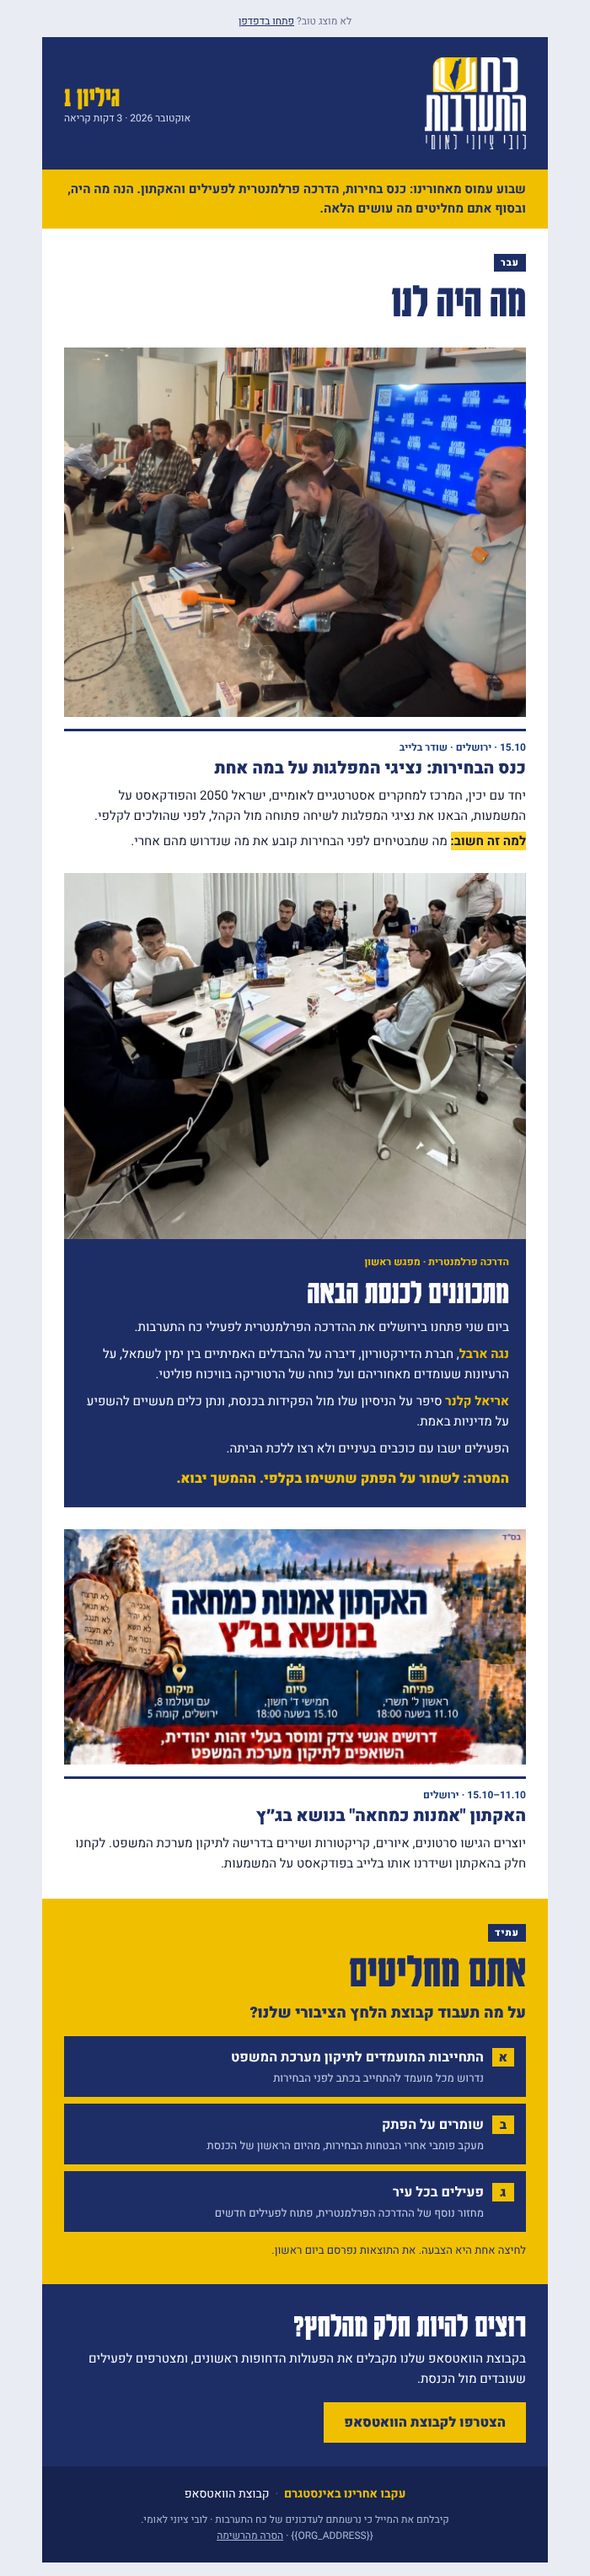
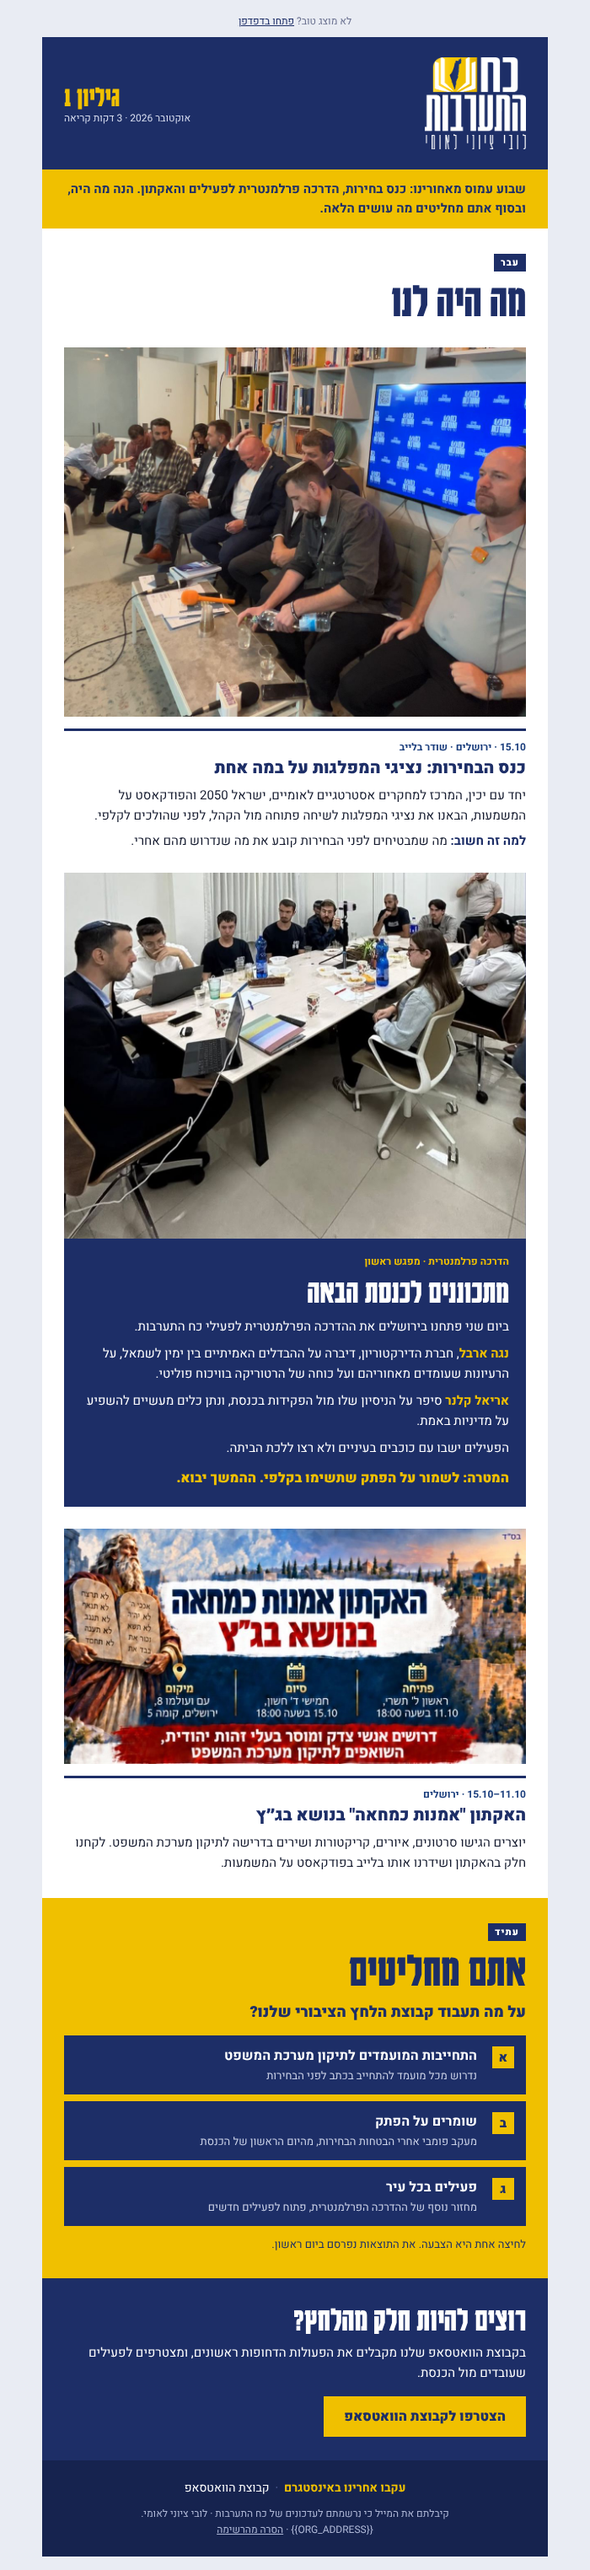
Rebuild issue 1 buttons with bgcolor table cells
Some senders strip CSS backgrounds; table-cell bgcolor survives them and Outlook.

Claude-Session: https://claude.ai/code/session_01CXy1GAMCNCJzawLkNUrF7w

diff --git a/newsletter/issue-01.html b/newsletter/issue-01.html
@@ -88,7 +88,7 @@
         <div style="font-size:12px;line-height:18px;font-weight:700;color:#1B3E7D;">15.10 · ירושלים · שודר בלייב</div>
         <div style="font-size:20px;line-height:28px;font-weight:900;color:#1D2E67;padding-top:2px;">כנס הבחירות: נציגי המפלגות על במה אחת</div>
         <div style="font-size:15px;line-height:24px;color:#141A2E;padding-top:6px;">יחד עם יכין, המרכז למחקרים אסטרטגיים לאומיים, ישראל 2050 והפודקאסט על המשמעות, הבאנו את נציגי המפלגות לשיחה פתוחה מול הקהל, לפני שהולכים לקלפי.</div>
-        <div style="font-size:15px;line-height:24px;color:#141A2E;padding-top:6px;"><span style="background:#FFD329;font-weight:700;">למה זה חשוב:</span> מה שמבטיחים לפני הבחירות קובע את מה שנדרוש מהם אחרי.</div>
+        <div style="font-size:15px;line-height:24px;color:#141A2E;padding-top:6px;"><b style="color:#1D2E67;">למה זה חשוב:</b> מה שמבטיחים לפני הבחירות קובע את מה שנדרוש מהם אחרי.</div>
       </div>
     </td></tr>
 
@@ -130,22 +130,37 @@
 
       <table role="presentation" width="100%" cellpadding="0" cellspacing="0" border="0">
         <tr><td style="padding-bottom:8px;">
-          <a href="{{VOTE_A_URL}}" style="display:block;background:#1D2E67;color:#FFFFFF;font-family:'Heebo',Arial,sans-serif;padding:13px 14px;text-align:right;">
-            <span style="display:inline-block;background:#F0C000;color:#1D2E67;font-size:15px;font-weight:900;width:26px;text-align:center;margin-left:10px;">א</span><span style="font-size:16px;line-height:22px;font-weight:700;">התחייבות המועמדים לתיקון מערכת המשפט</span>
-            <span style="display:block;font-size:13px;line-height:19px;color:#C9D0E6;padding-top:3px;padding-right:36px;">נדרוש מכל מועמד להתחייב בכתב לפני הבחירות</span>
-          </a>
+          <table role="presentation" width="100%" cellpadding="0" cellspacing="0" border="0"><tr>
+            <td width="34" valign="top" bgcolor="#1D2E67" style="padding:13px 14px 13px 0;">
+              <table role="presentation" cellpadding="0" cellspacing="0" border="0"><tr><td width="26" height="26" align="center" bgcolor="#F0C000" style="font-family:'Heebo',Arial,sans-serif;font-size:15px;font-weight:900;color:#1D2E67;"><a href="{{VOTE_A_URL}}" style="color:#1D2E67;text-decoration:none;">א</a></td></tr></table>
+            </td>
+            <td bgcolor="#1D2E67" style="padding:13px 10px 13px 14px;text-align:right;font-family:'Heebo',Arial,sans-serif;">
+              <a href="{{VOTE_A_URL}}" style="color:#FFFFFF;text-decoration:none;font-size:16px;line-height:22px;font-weight:700;display:block;">התחייבות המועמדים לתיקון מערכת המשפט</a>
+              <a href="{{VOTE_A_URL}}" style="color:#C9D0E6;text-decoration:none;font-size:13px;line-height:19px;display:block;padding-top:3px;">נדרוש מכל מועמד להתחייב בכתב לפני הבחירות</a>
+            </td>
+          </tr></table>
         </td></tr>
         <tr><td style="padding-bottom:8px;">
-          <a href="{{VOTE_B_URL}}" style="display:block;background:#1D2E67;color:#FFFFFF;font-family:'Heebo',Arial,sans-serif;padding:13px 14px;text-align:right;">
-            <span style="display:inline-block;background:#F0C000;color:#1D2E67;font-size:15px;font-weight:900;width:26px;text-align:center;margin-left:10px;">ב</span><span style="font-size:16px;line-height:22px;font-weight:700;">שומרים על הפתק</span>
-            <span style="display:block;font-size:13px;line-height:19px;color:#C9D0E6;padding-top:3px;padding-right:36px;">מעקב פומבי אחרי הבטחות הבחירות, מהיום הראשון של הכנסת</span>
-          </a>
+          <table role="presentation" width="100%" cellpadding="0" cellspacing="0" border="0"><tr>
+            <td width="34" valign="top" bgcolor="#1D2E67" style="padding:13px 14px 13px 0;">
+              <table role="presentation" cellpadding="0" cellspacing="0" border="0"><tr><td width="26" height="26" align="center" bgcolor="#F0C000" style="font-family:'Heebo',Arial,sans-serif;font-size:15px;font-weight:900;color:#1D2E67;"><a href="{{VOTE_B_URL}}" style="color:#1D2E67;text-decoration:none;">ב</a></td></tr></table>
+            </td>
+            <td bgcolor="#1D2E67" style="padding:13px 10px 13px 14px;text-align:right;font-family:'Heebo',Arial,sans-serif;">
+              <a href="{{VOTE_B_URL}}" style="color:#FFFFFF;text-decoration:none;font-size:16px;line-height:22px;font-weight:700;display:block;">שומרים על הפתק</a>
+              <a href="{{VOTE_B_URL}}" style="color:#C9D0E6;text-decoration:none;font-size:13px;line-height:19px;display:block;padding-top:3px;">מעקב פומבי אחרי הבטחות הבחירות, מהיום הראשון של הכנסת</a>
+            </td>
+          </tr></table>
         </td></tr>
         <tr><td>
-          <a href="{{VOTE_C_URL}}" style="display:block;background:#1D2E67;color:#FFFFFF;font-family:'Heebo',Arial,sans-serif;padding:13px 14px;text-align:right;">
-            <span style="display:inline-block;background:#F0C000;color:#1D2E67;font-size:15px;font-weight:900;width:26px;text-align:center;margin-left:10px;">ג</span><span style="font-size:16px;line-height:22px;font-weight:700;">פעילים בכל עיר</span>
-            <span style="display:block;font-size:13px;line-height:19px;color:#C9D0E6;padding-top:3px;padding-right:36px;">מחזור נוסף של ההדרכה הפרלמנטרית, פתוח לפעילים חדשים</span>
-          </a>
+          <table role="presentation" width="100%" cellpadding="0" cellspacing="0" border="0"><tr>
+            <td width="34" valign="top" bgcolor="#1D2E67" style="padding:13px 14px 13px 0;">
+              <table role="presentation" cellpadding="0" cellspacing="0" border="0"><tr><td width="26" height="26" align="center" bgcolor="#F0C000" style="font-family:'Heebo',Arial,sans-serif;font-size:15px;font-weight:900;color:#1D2E67;"><a href="{{VOTE_C_URL}}" style="color:#1D2E67;text-decoration:none;">ג</a></td></tr></table>
+            </td>
+            <td bgcolor="#1D2E67" style="padding:13px 10px 13px 14px;text-align:right;font-family:'Heebo',Arial,sans-serif;">
+              <a href="{{VOTE_C_URL}}" style="color:#FFFFFF;text-decoration:none;font-size:16px;line-height:22px;font-weight:700;display:block;">פעילים בכל עיר</a>
+              <a href="{{VOTE_C_URL}}" style="color:#C9D0E6;text-decoration:none;font-size:13px;line-height:19px;display:block;padding-top:3px;">מחזור נוסף של ההדרכה הפרלמנטרית, פתוח לפעילים חדשים</a>
+            </td>
+          </tr></table>
         </td></tr>
       </table>
       <p style="margin:12px 0 0;font-family:'Heebo',Arial,sans-serif;font-size:13px;line-height:20px;color:#1D2E67;">לחיצה אחת היא הצבעה. את התוצאות נפרסם ביום ראשון.</p>
@@ -155,9 +170,8 @@
     <tr><td class="px" bgcolor="#1D2E67" style="background:#1D2E67;padding:28px 26px;text-align:right;font-family:'Heebo',Arial,sans-serif;">
       <div style="font-family:'Karantina','Heebo',Arial,sans-serif;font-size:40px;line-height:40px;font-weight:700;color:#FFFFFF;">רוצים להיות חלק מהלחץ?</div>
       <div style="font-size:15px;line-height:24px;color:#FFFFFF;padding:8px 0 16px;">בקבוצת הוואטסאפ שלנו מקבלים את הפעולות הדחופות ראשונים, ומצטרפים לפעילים שעובדים מול הכנסת.</div>
-      <table role="presentation" cellpadding="0" cellspacing="0" border="0"><tr><td class="btn">
-        <!--[if mso]><v:rect xmlns:v="urn:schemas-microsoft-com:vml" href="https://chat.whatsapp.com/Cxw30pP21S34YVVI3dAeJi" style="height:48px;v-text-anchor:middle;width:280px;" stroke="f" fillcolor="#F0C000"><center style="color:#1D2E67;font-family:Arial,sans-serif;font-size:16px;font-weight:bold;">הצטרפו לקבוצת הוואטסאפ</center></v:rect><![endif]-->
-        <!--[if !mso]><!--><a href="https://chat.whatsapp.com/Cxw30pP21S34YVVI3dAeJi" style="display:inline-block;background:#F0C000;color:#1D2E67;font-family:'Heebo',Arial,sans-serif;font-size:16px;font-weight:900;line-height:20px;padding:14px 24px;">הצטרפו לקבוצת הוואטסאפ</a><!--<![endif]-->
+      <table role="presentation" cellpadding="0" cellspacing="0" border="0"><tr><td class="btn" bgcolor="#F0C000" style="background:#F0C000;">
+        <a href="https://chat.whatsapp.com/Cxw30pP21S34YVVI3dAeJi" style="display:inline-block;color:#1D2E67;font-family:'Heebo',Arial,sans-serif;font-size:16px;font-weight:900;line-height:20px;padding:14px 24px;">הצטרפו לקבוצת הוואטסאפ</a>
       </td></tr></table>
     </td></tr>
 

diff --git a/newsletter/preview-issue-01.html b/newsletter/preview-issue-01.html
@@ -88,7 +88,7 @@
         <div style="font-size:12px;line-height:18px;font-weight:700;color:#1B3E7D;">15.10 · ירושלים · שודר בלייב</div>
         <div style="font-size:20px;line-height:28px;font-weight:900;color:#1D2E67;padding-top:2px;">כנס הבחירות: נציגי המפלגות על במה אחת</div>
         <div style="font-size:15px;line-height:24px;color:#141A2E;padding-top:6px;">יחד עם יכין, המרכז למחקרים אסטרטגיים לאומיים, ישראל 2050 והפודקאסט על המשמעות, הבאנו את נציגי המפלגות לשיחה פתוחה מול הקהל, לפני שהולכים לקלפי.</div>
-        <div style="font-size:15px;line-height:24px;color:#141A2E;padding-top:6px;"><span style="background:#FFD329;font-weight:700;">למה זה חשוב:</span> מה שמבטיחים לפני הבחירות קובע את מה שנדרוש מהם אחרי.</div>
+        <div style="font-size:15px;line-height:24px;color:#141A2E;padding-top:6px;"><b style="color:#1D2E67;">למה זה חשוב:</b> מה שמבטיחים לפני הבחירות קובע את מה שנדרוש מהם אחרי.</div>
       </div>
     </td></tr>
 
@@ -130,22 +130,37 @@
 
       <table role="presentation" width="100%" cellpadding="0" cellspacing="0" border="0">
         <tr><td style="padding-bottom:8px;">
-          <a href="{{VOTE_A_URL}}" style="display:block;background:#1D2E67;color:#FFFFFF;font-family:'Heebo',Arial,sans-serif;padding:13px 14px;text-align:right;">
-            <span style="display:inline-block;background:#F0C000;color:#1D2E67;font-size:15px;font-weight:900;width:26px;text-align:center;margin-left:10px;">א</span><span style="font-size:16px;line-height:22px;font-weight:700;">התחייבות המועמדים לתיקון מערכת המשפט</span>
-            <span style="display:block;font-size:13px;line-height:19px;color:#C9D0E6;padding-top:3px;padding-right:36px;">נדרוש מכל מועמד להתחייב בכתב לפני הבחירות</span>
-          </a>
+          <table role="presentation" width="100%" cellpadding="0" cellspacing="0" border="0"><tr>
+            <td width="34" valign="top" bgcolor="#1D2E67" style="padding:13px 14px 13px 0;">
+              <table role="presentation" cellpadding="0" cellspacing="0" border="0"><tr><td width="26" height="26" align="center" bgcolor="#F0C000" style="font-family:'Heebo',Arial,sans-serif;font-size:15px;font-weight:900;color:#1D2E67;"><a href="{{VOTE_A_URL}}" style="color:#1D2E67;text-decoration:none;">א</a></td></tr></table>
+            </td>
+            <td bgcolor="#1D2E67" style="padding:13px 10px 13px 14px;text-align:right;font-family:'Heebo',Arial,sans-serif;">
+              <a href="{{VOTE_A_URL}}" style="color:#FFFFFF;text-decoration:none;font-size:16px;line-height:22px;font-weight:700;display:block;">התחייבות המועמדים לתיקון מערכת המשפט</a>
+              <a href="{{VOTE_A_URL}}" style="color:#C9D0E6;text-decoration:none;font-size:13px;line-height:19px;display:block;padding-top:3px;">נדרוש מכל מועמד להתחייב בכתב לפני הבחירות</a>
+            </td>
+          </tr></table>
         </td></tr>
         <tr><td style="padding-bottom:8px;">
-          <a href="{{VOTE_B_URL}}" style="display:block;background:#1D2E67;color:#FFFFFF;font-family:'Heebo',Arial,sans-serif;padding:13px 14px;text-align:right;">
-            <span style="display:inline-block;background:#F0C000;color:#1D2E67;font-size:15px;font-weight:900;width:26px;text-align:center;margin-left:10px;">ב</span><span style="font-size:16px;line-height:22px;font-weight:700;">שומרים על הפתק</span>
-            <span style="display:block;font-size:13px;line-height:19px;color:#C9D0E6;padding-top:3px;padding-right:36px;">מעקב פומבי אחרי הבטחות הבחירות, מהיום הראשון של הכנסת</span>
-          </a>
+          <table role="presentation" width="100%" cellpadding="0" cellspacing="0" border="0"><tr>
+            <td width="34" valign="top" bgcolor="#1D2E67" style="padding:13px 14px 13px 0;">
+              <table role="presentation" cellpadding="0" cellspacing="0" border="0"><tr><td width="26" height="26" align="center" bgcolor="#F0C000" style="font-family:'Heebo',Arial,sans-serif;font-size:15px;font-weight:900;color:#1D2E67;"><a href="{{VOTE_B_URL}}" style="color:#1D2E67;text-decoration:none;">ב</a></td></tr></table>
+            </td>
+            <td bgcolor="#1D2E67" style="padding:13px 10px 13px 14px;text-align:right;font-family:'Heebo',Arial,sans-serif;">
+              <a href="{{VOTE_B_URL}}" style="color:#FFFFFF;text-decoration:none;font-size:16px;line-height:22px;font-weight:700;display:block;">שומרים על הפתק</a>
+              <a href="{{VOTE_B_URL}}" style="color:#C9D0E6;text-decoration:none;font-size:13px;line-height:19px;display:block;padding-top:3px;">מעקב פומבי אחרי הבטחות הבחירות, מהיום הראשון של הכנסת</a>
+            </td>
+          </tr></table>
         </td></tr>
         <tr><td>
-          <a href="{{VOTE_C_URL}}" style="display:block;background:#1D2E67;color:#FFFFFF;font-family:'Heebo',Arial,sans-serif;padding:13px 14px;text-align:right;">
-            <span style="display:inline-block;background:#F0C000;color:#1D2E67;font-size:15px;font-weight:900;width:26px;text-align:center;margin-left:10px;">ג</span><span style="font-size:16px;line-height:22px;font-weight:700;">פעילים בכל עיר</span>
-            <span style="display:block;font-size:13px;line-height:19px;color:#C9D0E6;padding-top:3px;padding-right:36px;">מחזור נוסף של ההדרכה הפרלמנטרית, פתוח לפעילים חדשים</span>
-          </a>
+          <table role="presentation" width="100%" cellpadding="0" cellspacing="0" border="0"><tr>
+            <td width="34" valign="top" bgcolor="#1D2E67" style="padding:13px 14px 13px 0;">
+              <table role="presentation" cellpadding="0" cellspacing="0" border="0"><tr><td width="26" height="26" align="center" bgcolor="#F0C000" style="font-family:'Heebo',Arial,sans-serif;font-size:15px;font-weight:900;color:#1D2E67;"><a href="{{VOTE_C_URL}}" style="color:#1D2E67;text-decoration:none;">ג</a></td></tr></table>
+            </td>
+            <td bgcolor="#1D2E67" style="padding:13px 10px 13px 14px;text-align:right;font-family:'Heebo',Arial,sans-serif;">
+              <a href="{{VOTE_C_URL}}" style="color:#FFFFFF;text-decoration:none;font-size:16px;line-height:22px;font-weight:700;display:block;">פעילים בכל עיר</a>
+              <a href="{{VOTE_C_URL}}" style="color:#C9D0E6;text-decoration:none;font-size:13px;line-height:19px;display:block;padding-top:3px;">מחזור נוסף של ההדרכה הפרלמנטרית, פתוח לפעילים חדשים</a>
+            </td>
+          </tr></table>
         </td></tr>
       </table>
       <p style="margin:12px 0 0;font-family:'Heebo',Arial,sans-serif;font-size:13px;line-height:20px;color:#1D2E67;">לחיצה אחת היא הצבעה. את התוצאות נפרסם ביום ראשון.</p>
@@ -155,9 +170,8 @@
     <tr><td class="px" bgcolor="#1D2E67" style="background:#1D2E67;padding:28px 26px;text-align:right;font-family:'Heebo',Arial,sans-serif;">
       <div style="font-family:'Karantina','Heebo',Arial,sans-serif;font-size:40px;line-height:40px;font-weight:700;color:#FFFFFF;">רוצים להיות חלק מהלחץ?</div>
       <div style="font-size:15px;line-height:24px;color:#FFFFFF;padding:8px 0 16px;">בקבוצת הוואטסאפ שלנו מקבלים את הפעולות הדחופות ראשונים, ומצטרפים לפעילים שעובדים מול הכנסת.</div>
-      <table role="presentation" cellpadding="0" cellspacing="0" border="0"><tr><td class="btn">
-        <!--[if mso]><v:rect xmlns:v="urn:schemas-microsoft-com:vml" href="https://chat.whatsapp.com/Cxw30pP21S34YVVI3dAeJi" style="height:48px;v-text-anchor:middle;width:280px;" stroke="f" fillcolor="#F0C000"><center style="color:#1D2E67;font-family:Arial,sans-serif;font-size:16px;font-weight:bold;">הצטרפו לקבוצת הוואטסאפ</center></v:rect><![endif]-->
-        <!--[if !mso]><!--><a href="https://chat.whatsapp.com/Cxw30pP21S34YVVI3dAeJi" style="display:inline-block;background:#F0C000;color:#1D2E67;font-family:'Heebo',Arial,sans-serif;font-size:16px;font-weight:900;line-height:20px;padding:14px 24px;">הצטרפו לקבוצת הוואטסאפ</a><!--<![endif]-->
+      <table role="presentation" cellpadding="0" cellspacing="0" border="0"><tr><td class="btn" bgcolor="#F0C000" style="background:#F0C000;">
+        <a href="https://chat.whatsapp.com/Cxw30pP21S34YVVI3dAeJi" style="display:inline-block;color:#1D2E67;font-family:'Heebo',Arial,sans-serif;font-size:16px;font-weight:900;line-height:20px;padding:14px 24px;">הצטרפו לקבוצת הוואטסאפ</a>
       </td></tr></table>
     </td></tr>
 
